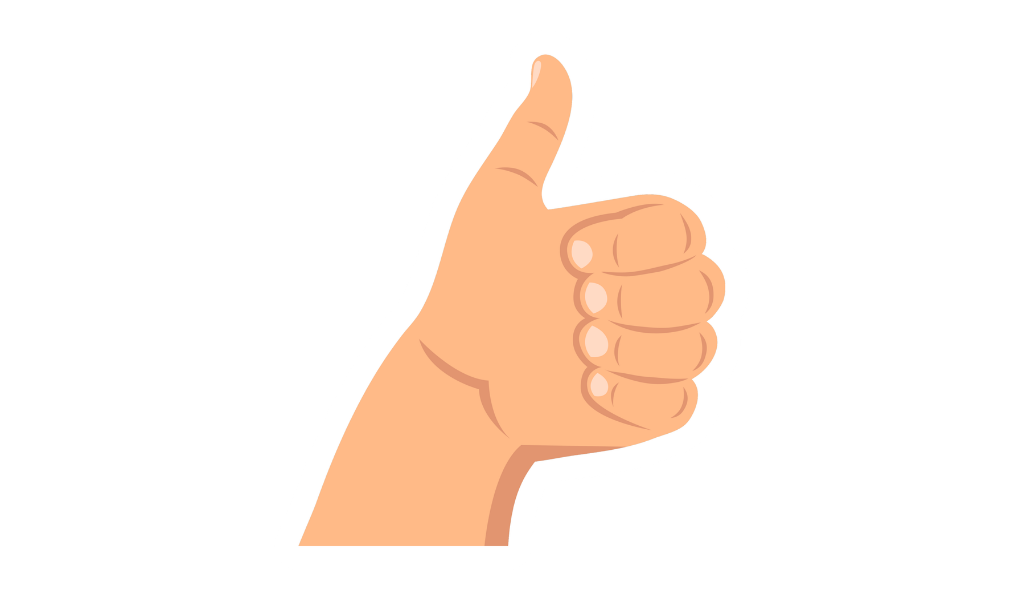
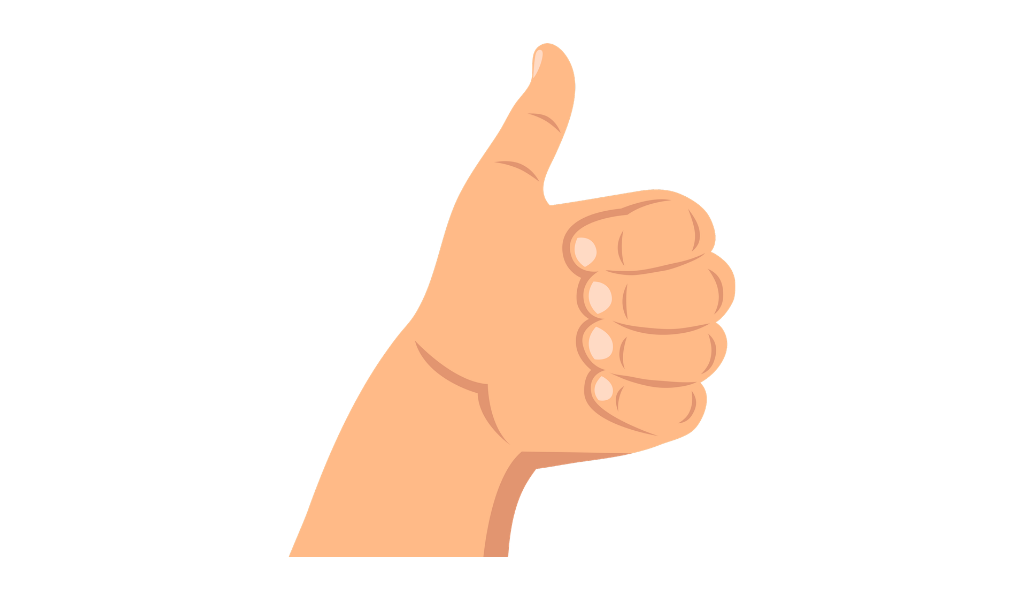
fixed retake issue

diff --git a/frontend/ui.py b/frontend/ui.py
@@ -27,7 +27,9 @@ GESTURE_PATH = "/tmp/photobooth_gesture.txt"
 
 # Upload / print settings
 PRINT_ENABLED = True                    # False = skip the printer (handy when testing upload + QR)
-STRIP_PATH = "photostrip/strip_print.png"
+STRIP_PATH = "photostrip/strip_print.png"          # black & white, for the printer
+STRIP_COLOR_PATH = "photostrip/strip_color.jpg"    # colour copy that goes online
+STRIP_ONLINE_WIDTH = 768                           # online strip width in px
 QR_PATH = "photostrip/qr.png"
 QR_TIMEOUT_MS = 45000                   # QR screen returns to home by itself after this long
 
@@ -47,6 +49,10 @@ ASSET_DIR = os.path.join(
     os.path.dirname(os.path.dirname(os.path.abspath(__file__))), "assets"
 )
 
+# Logo shown at the bottom of the strip (transparent PNG). If this file is
+# missing, the text "GIRLS IN TECH" is used instead.
+STRIP_LOGO = os.path.join(ASSET_DIR, "git_logo.png")
+
 # Colours
 PURPLE = (108, 52, 184)
 LAVENDER = (206, 190, 238)
@@ -58,19 +64,26 @@ INK = (34, 28, 56)
 # the camera preview, so the picture is never stretched.
 # ----------------------------------------------------------------------
 
-CAM_BIG = pygame.Rect(270, 135, 1380, 828)      # timer, countdown, review
-CAM_HOME = pygame.Rect(590, 530, 740, 444)      # home
-CAM_QR = pygame.Rect(930, 360, 735, 441)        # qr
-QR_PANEL = pygame.Rect(200, 238, 660, 660)      # white panel holding the QR code
+CAM_BIG = pygame.Rect(330, 240, 1260, 756)      # timer, countdown, review
+CAM_HOME = pygame.Rect(590, 500, 740, 444)      # home (its top follows the logo)
+CAM_QR = pygame.Rect(930, 375, 735, 441)        # qr
+QR_PANEL = pygame.Rect(200, 255, 660, 660)      # white panel holding the QR code
 QR_SIZE = 600
 
-SLOT_W = 300                                    # review photo slots (4:3, like the printed strip)
-SLOT_H = 225
-SLOT_GAP = 30
-SLOT_TOP = 367
+# Review photo slots (4:3, like the printed strip), sized to fit inside CAM_BIG
+SLOT_GAP = 26
+SLOT_W = (CAM_BIG.w - 100 - 3 * SLOT_GAP) // 4
+SLOT_H = SLOT_W * 3 // 4
+SLOT_TOP = CAM_BIG.y + int(CAM_BIG.h * 0.26)
 
-LOGO_BIG_MAX = (1000, 380)      # (max width, max height) on the home screen
-LOGO_SMALL_MAX = (520, 96)      # on every other screen; kept short so it clears the camera frame
+# Speech bubbles inside the big camera box
+BUBBLE_BIG_TOP = CAM_BIG.bottom - 210
+BUBBLE_COUNT_TOP = CAM_BIG.bottom - 100
+
+# (max width, max height). The small logo must stay shorter than the gap
+# above the camera frame (about 215 px) or it will be covered by it.
+LOGO_BIG_MAX = (1300, 430)      # home screen
+LOGO_SMALL_MAX = (1040, 190)    # every other screen
 
 # name -> (file in assets/, height on screen in px)
 HANDS = {
@@ -131,6 +144,16 @@ def crop_to_aspect(surface, aspect):
     else:
         new_h = int(w / aspect)
         rect = pygame.Rect(0, (h - new_h) // 2, w, new_h)
+
+    return surface.subsurface(rect).copy()
+
+
+def trim_transparent(surface):
+    """Crops away empty (transparent) margins so the logo sits where we place it."""
+    rect = surface.get_bounding_rect()
+
+    if rect.width == 0 or rect.height == 0:
+        return surface
 
     return surface.subsurface(rect).copy()
 
@@ -285,6 +308,9 @@ class PhotoboothUI:
         # Optional flatter logo for the inner screens; falls back to logo.png.
         logo_small = load_asset_image("logo_small.png") or logo
 
+        logo = trim_transparent(logo)
+        logo_small = trim_transparent(logo_small)
+
         return fit_within(logo, *LOGO_BIG_MAX), fit_within(logo_small, *LOGO_SMALL_MAX)
 
     def load_hands(self):
@@ -307,11 +333,13 @@ class PhotoboothUI:
 
     def draw_logo(self, big=False):
         if big:
-            rect = self.logo_big.get_rect(midtop=(self.width // 2, 70))
+            rect = self.logo_big.get_rect(midtop=(self.width // 2, 40))
             self.screen.blit(self.logo_big, rect)
         else:
             rect = self.logo_small.get_rect(midtop=(self.width // 2, 14))
             self.screen.blit(self.logo_small, rect)
+
+        return rect
 
     def draw_hand(self, key, x, anchor="left"):
         image = self.hands.get(key)
@@ -422,8 +450,12 @@ class PhotoboothUI:
 
     def draw_home(self):
         self.draw_background()
-        self.draw_logo(big=True)
-        self.draw_camera_feed(CAM_HOME)
+        logo_rect = self.draw_logo(big=True)
+
+        # Camera sits just under the logo, however tall the logo turns out.
+        cam = CAM_HOME.copy()
+        cam.top = logo_rect.bottom + 45
+        self.draw_camera_feed(cam)
 
         self.draw_bubble(["Show a thumbs", "up to start"], 365, 600)
         self.draw_hand("thumbs_up", 190)
@@ -436,7 +468,7 @@ class PhotoboothUI:
         self.draw_bubble(
             ["Hold up 3 fingers for 3 seconds", "Hold up 5 fingers for 5 seconds"],
             self.width // 2,
-            745
+            BUBBLE_BIG_TOP
         )
 
         self.draw_hand("three", 120)
@@ -453,11 +485,16 @@ class PhotoboothUI:
         self.draw_bubble(
             ["Photo {} of 4".format(self.photo_number)],
             self.width // 2,
-            868
+            BUBBLE_COUNT_TOP
         )
 
     def build_review_thumbs(self):
-        key = tuple(self.captured_photos)
+        # Retakes save over the same file names, so the file's modified time
+        # is part of the key; otherwise the old photos stay on screen.
+        key = tuple(
+            (path, os.path.getmtime(path) if os.path.exists(path) else 0)
+            for path in self.captured_photos
+        )
 
         if key == self.review_thumbs_key:
             return
@@ -502,7 +539,7 @@ class PhotoboothUI:
         self.draw_bubble(
             ["Hold up thumbs up to confirm", "Hold up closed fist to retake"],
             self.width // 2,
-            745
+            BUBBLE_BIG_TOP
         )
 
         self.draw_hand("thumbs_up", 150)
@@ -550,7 +587,7 @@ class PhotoboothUI:
         self.draw_bubble(
             ["Hold thumbs up once you have", "finished scanning"],
             CAM_QR.centerx,
-            846
+            CAM_QR.bottom + 45
         )
 
         if PRINT_ENABLED:
@@ -564,7 +601,7 @@ class PhotoboothUI:
                 note = None
 
             if note:
-                self.draw_bubble([note], QR_PANEL.centerx, 920, font=self.small_font)
+                self.draw_bubble([note], QR_PANEL.centerx, QR_PANEL.bottom + 18, font=self.small_font)
 
         self.draw_hand("thumbs_up", self.width - 70, anchor="right")
 
@@ -575,7 +612,7 @@ class PhotoboothUI:
         self.draw_logo()
 
         panel = pygame.Rect(0, 0, 1200, 380)
-        panel.center = (self.width // 2, 440)
+        panel.center = (self.width // 2, 470)
         self.draw_panel(panel)
 
         heading = self.pixel_heading.render("OOPS!", True, PURPLE)
@@ -590,7 +627,7 @@ class PhotoboothUI:
         self.draw_bubble(
             ["Hold up thumbs up to try again", "Hold up closed fist to start over"],
             self.width // 2,
-            700
+            730
         )
 
         self.draw_hand("thumbs_up", 150)
@@ -666,11 +703,13 @@ class PhotoboothUI:
         self.photo_number = 1
         self.photo_taken = False
         self.captured_photos = []
+        self.review_thumbs_key = None
         self.countdown_start = pygame.time.get_ticks()
         self.change_screen("countdown")
 
     def retake_photos(self):
         self.captured_photos = []
+        self.review_thumbs_key = None
         self.photo_number = 1
         self.photo_taken = False
         self.change_screen("timer_select")
@@ -725,6 +764,21 @@ class PhotoboothUI:
                 )
                 save_photo(session_id, number, path)
 
+            # The photo strip (all 4 photos + logo) goes online as a 5th picture.
+            # If making it fails, the 4 photos are still saved, so carry on.
+            try:
+                from printer.strip import make_strip
+
+                self.job_message = "Adding your photo strip..."
+                make_strip(
+                    photos, STRIP_COLOR_PATH,
+                    width=STRIP_ONLINE_WIDTH, dither=False, logo_path=STRIP_LOGO
+                )
+                save_photo(session_id, len(photos) + 1, STRIP_COLOR_PATH)
+
+            except Exception as error:
+                print("Photo strip upload skipped:", error)
+
             self.job_message = "Making your QR code..."
             make_qr(session_id, save_as=QR_PATH)
 
@@ -740,7 +794,7 @@ class PhotoboothUI:
             from printer.strip import make_strip
             from printer.printer import print_strip
 
-            make_strip(photos, STRIP_PATH)
+            make_strip(photos, STRIP_PATH, logo_path=STRIP_LOGO)
 
             # One print at a time, in case a new round finishes while this one prints.
             with self.print_lock:
